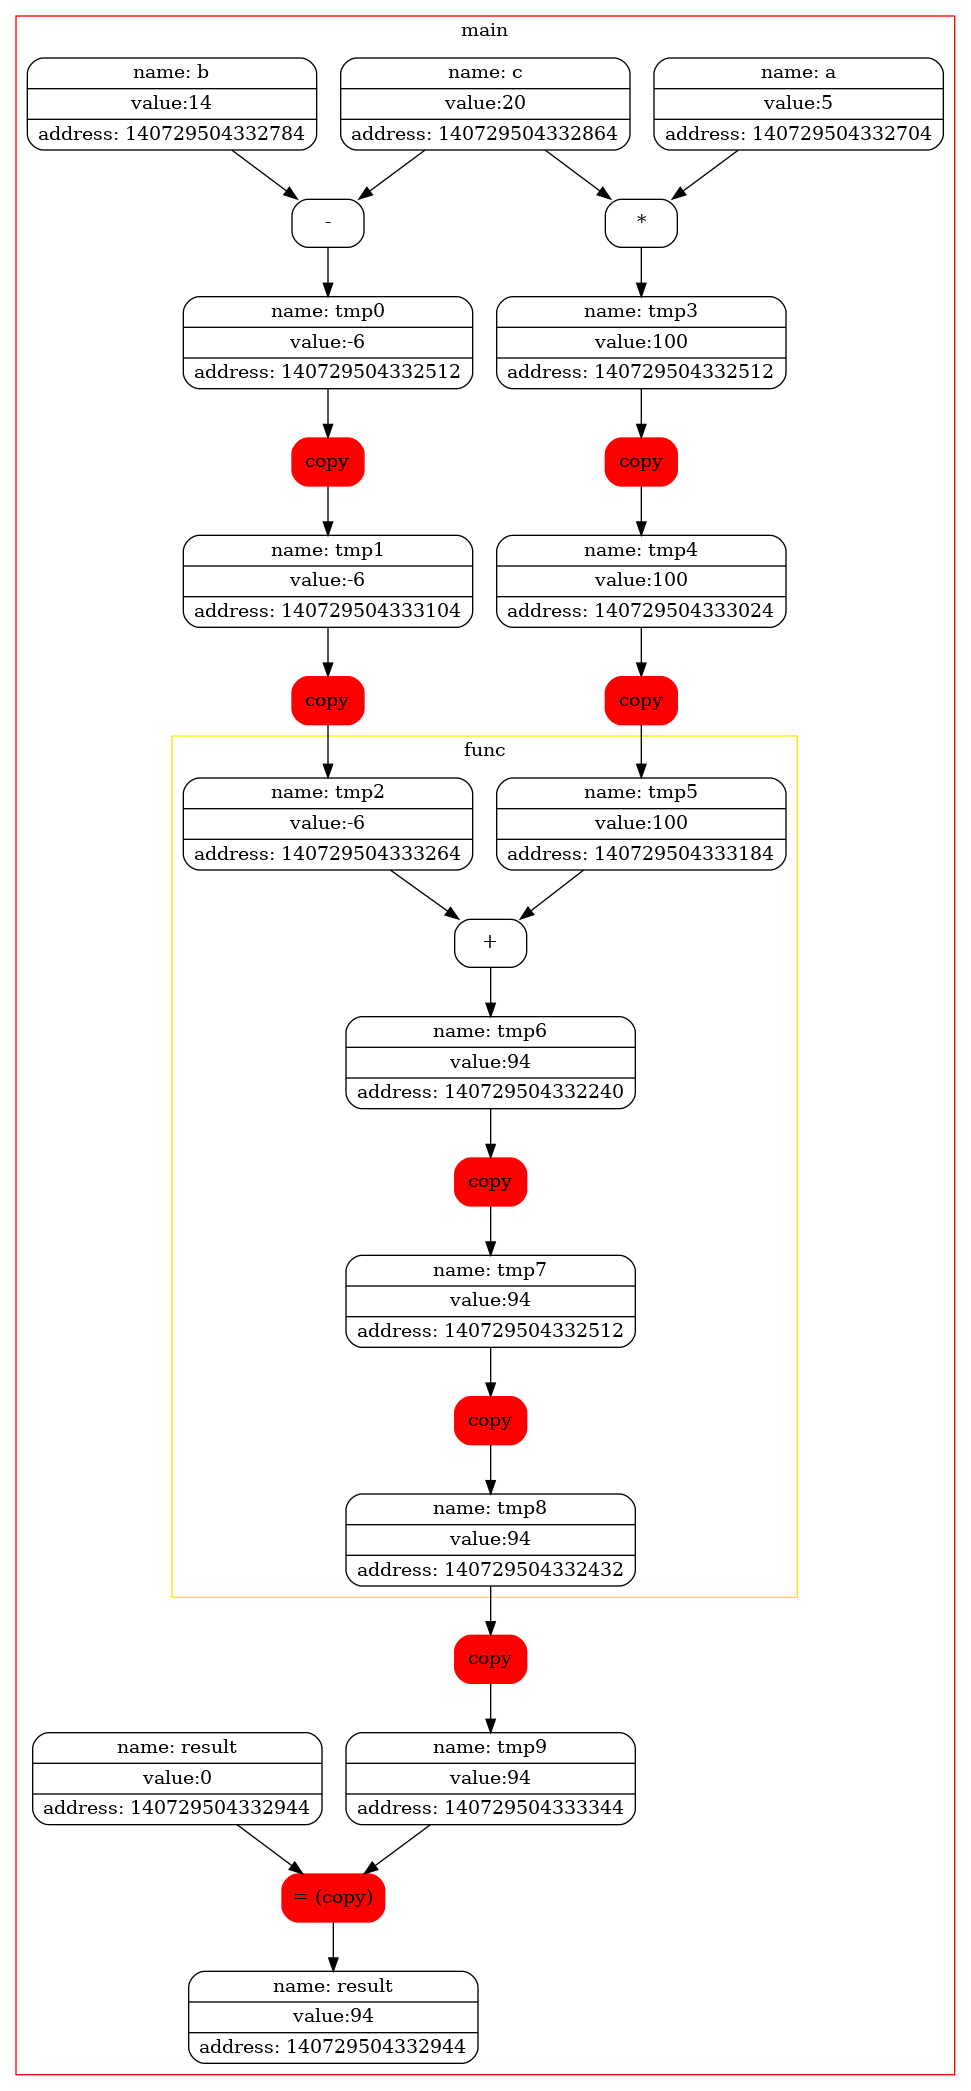
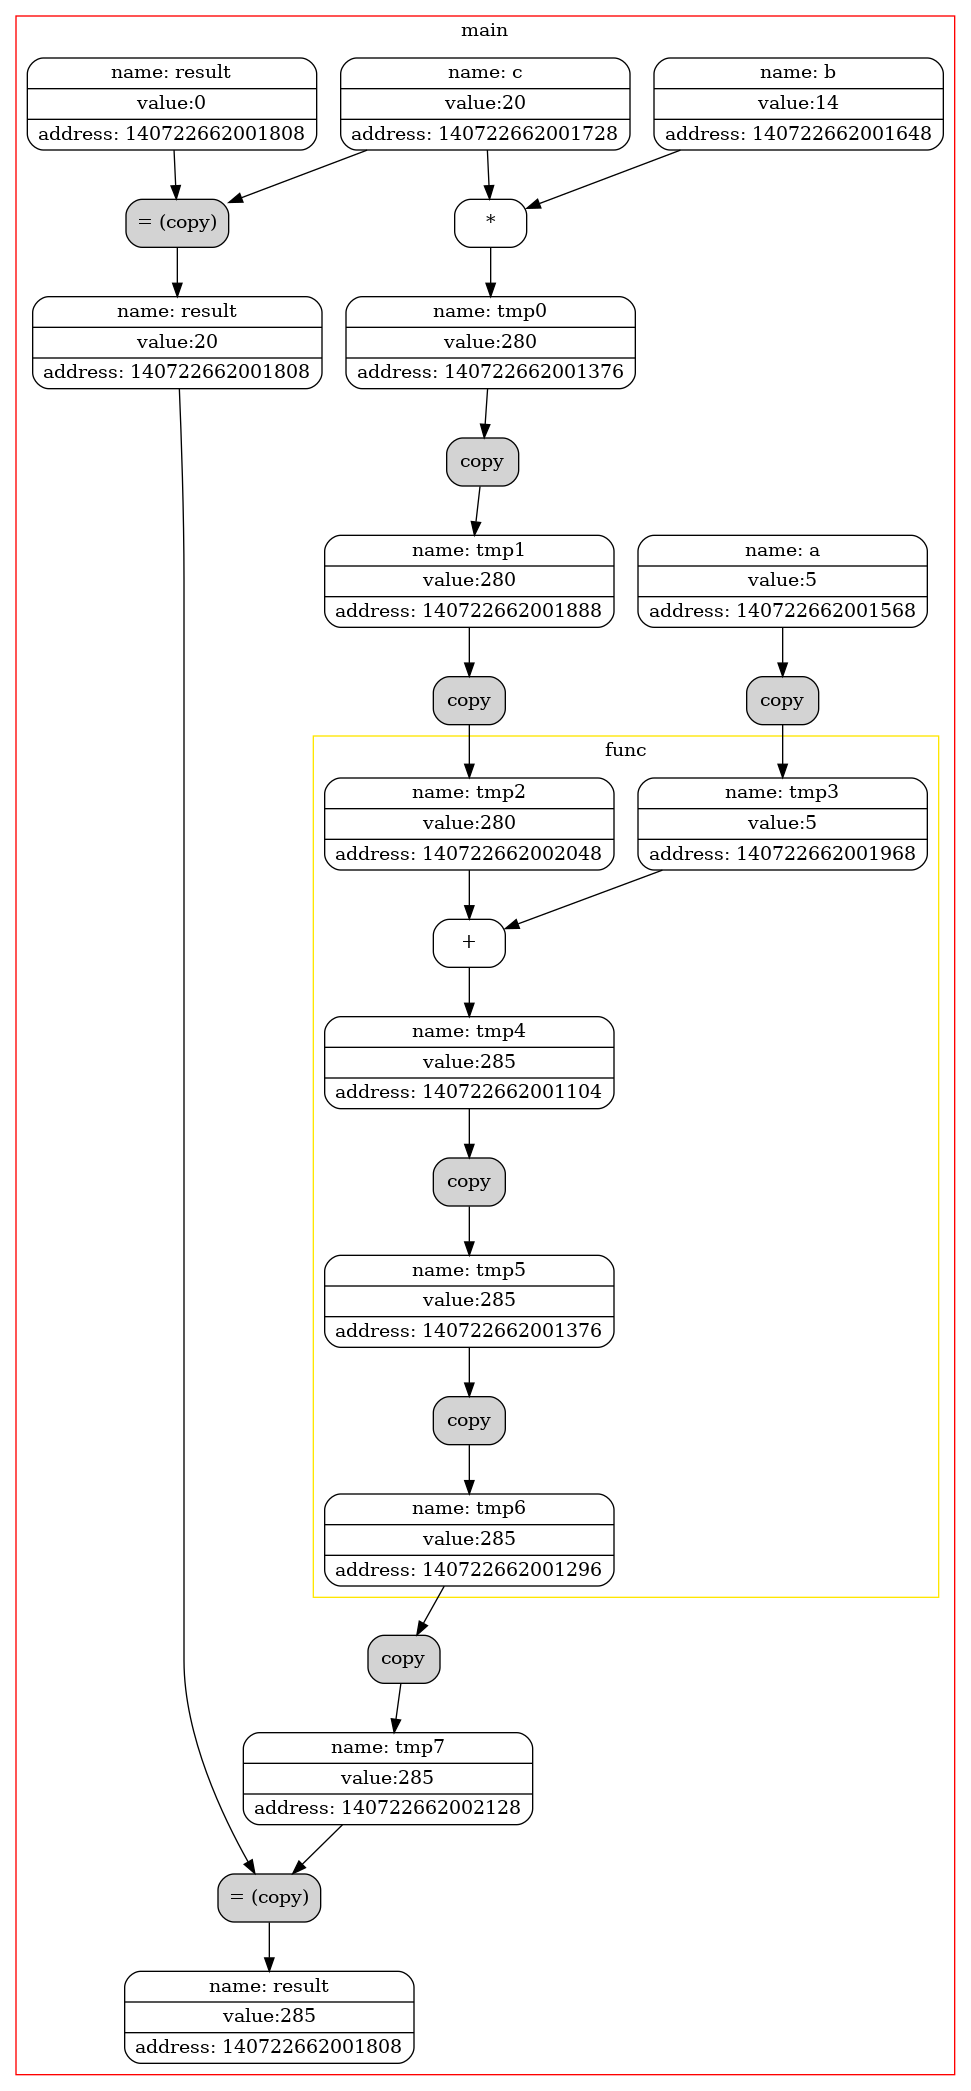
antoher_example

diff --git a/SuperType.hpp b/SuperType.hpp
@@ -164,7 +164,7 @@ SuperType<T>::SuperType(const SuperType<T> &that, const std::string &name):
         
         Tracker &tracker = Tracker::getInstance();
         
-        int operation_id = tracker.print_oper("copy", "red", "filled");
+        int operation_id = tracker.print_oper("copy", "", "filled");
 
         tracker.print_edge(that.id_, operation_id);
         tracker.print_node(*this);
@@ -182,7 +182,7 @@ SuperType<T> &SuperType<T>::operator= (const SuperType<T> &that)
         Tracker &tracker = Tracker::getInstance();
 
         std::cout << "Operator = " << name_ << std::endl; 
-        tracker.print_operation(*this, that, *this, "= (copy)", "red", "filled");
+        tracker.print_operation(*this, that, *this, "= (copy)", "", "filled");
     }
 
     return *this;

diff --git a/main.cpp b/main.cpp
@@ -22,7 +22,8 @@ int main()
     SuperType<int> c(20, "c");
     SuperType<int> result(0, "result");
     
-    result = func(a * c, b - c);
+    result = c;
+    result = func(a, b * c);
     
     end_function();
 }
